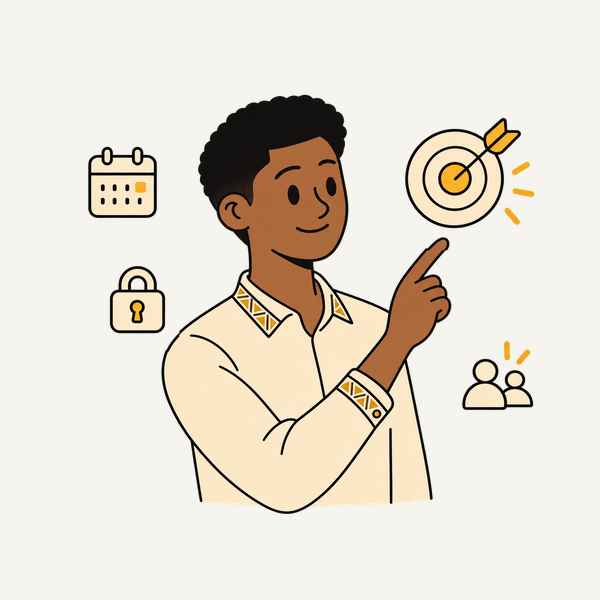
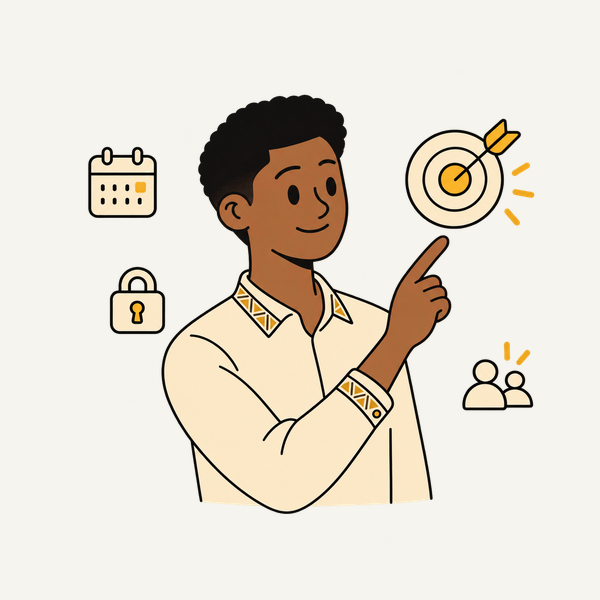
Show the smooth onboarding GIFs
Replace the bundled onboarding art with the approved *-afro-smooth-preview
exports, in which each character stays fixed and only the motifs move.
The asset test now checks frame count and timing, the fixed character
region and a seamless loop. Track the smooth sources, their export
script and the updated plans and brief.

diff --git a/test/onboarding_assets_test.dart b/test/onboarding_assets_test.dart
@@ -3,24 +3,57 @@ import 'dart:io';
 import 'package:flutter_test/flutter_test.dart';
 import 'package:image/image.dart' as img;
 
-void main() {
-  for (final slide in ['save', 'goals', 'pay']) {
-    test('$slide onboarding art is a 600x600 1920ms loop with a still', () {
-      final gif = img.decodeGif(
-        File('assets/img/onboarding/$slide.gif').readAsBytesSync(),
-      )!;
-      expect(gif.frames.length, greaterThan(1));
-      expect(
-        gif.frames.fold<int>(0, (sum, f) => sum + f.frameDuration),
-        1920,
-      );
-      expect([gif.width, gif.height], [600, 600]);
+/// Each slide's character region (left, top, right, bottom), which must not
+/// move: only the floating motifs around it animate.
+const _characters = {
+  'save': (185, 235, 425, 425),
+  'goals': (175, 265, 445, 500),
+  'pay': (220, 280, 370, 480),
+};
 
-      final still = img.decodePng(
-        File('assets/img/onboarding/$slide-still.png').readAsBytesSync(),
-      )!;
-      expect([still.width, still.height], [600, 600]);
-    });
+int _difference(img.Image a, img.Image b) {
+  var sum = 0;
+  for (final p in a) {
+    final q = b.getPixel(p.x, p.y);
+    sum += ((p.r - q.r).abs() + (p.g - q.g).abs() + (p.b - q.b).abs()).toInt();
+  }
+  return sum;
+}
+
+void main() {
+  for (final MapEntry(key: slide, value: (l, t, r, b)) in _characters.entries) {
+    test(
+      '$slide onboarding art is a smooth 600x600 1920ms loop with a still',
+      () {
+        final gif = img.decodeGif(
+          File('assets/img/onboarding/$slide.gif').readAsBytesSync(),
+        )!;
+        final frames = gif.frames;
+        expect(frames.length, greaterThanOrEqualTo(40));
+        expect(frames.every((f) => f.frameDuration <= 80), isTrue);
+        expect(frames.fold<int>(0, (sum, f) => sum + f.frameDuration), 1920);
+        expect([gif.width, gif.height], [600, 600]);
+
+        img.Image character(img.Image f) =>
+            img.copyCrop(f, x: l, y: t, width: r - l, height: b - t);
+        final still = character(frames.first);
+        for (final frame in frames) {
+          expect(_difference(character(frame), still), 0);
+        }
+
+        final steps = [
+          for (var i = 1; i < frames.length; i++)
+            _difference(frames[i - 1], frames[i]),
+        ];
+        final wrap = _difference(frames.last, frames.first);
+        expect(wrap, lessThanOrEqualTo(steps.reduce((a, b) => a > b ? a : b)));
+
+        final png = img.decodePng(
+          File('assets/img/onboarding/$slide-still.png').readAsBytesSync(),
+        )!;
+        expect([png.width, png.height], [600, 600]);
+      },
+    );
   }
 
   test('onboarding asset directory is declared in pubspec', () {

diff --git a/design/onboarding_previews/build_smooth_gifs.py b/design/onboarding_previews/build_smooth_gifs.py
@@ -1,0 +1,79 @@
+"""Build steady, gently animated previews from the approved onboarding art."""
+
+from pathlib import Path
+import math
+
+from PIL import Image
+
+
+HERE = Path(__file__).resolve().parent
+BACKGROUND = (246, 244, 238, 255)
+FRAME_COUNT = 48
+FRAME_MS = 40
+OUTPUT_SIZE = 600
+ART_SIZE = 505
+
+# Only these small floating motifs move. The characters and the crop stay fixed.
+ASSETS = (
+    ("01-save-afro", ((145, 250, 365, 500, 0.3), (925, 260, 1170, 520, 1.5))),
+    (
+        "02-goals-afro",
+        (
+            (65, 220, 320, 475, 0.2),
+            (845, 135, 1230, 460, 1.5),
+            (125, 530, 290, 765, 2.2),
+            (995, 720, 1230, 970, 0.9),
+        ),
+    ),
+    ("03-pay-afro", ((165, 245, 405, 500, 0.4), (875, 360, 1135, 610, 1.5))),
+)
+
+
+def render(name, regions):
+    original = Image.open(HERE / f"{name}-master.png").convert("RGBA")
+    fixed_crop = original.getchannel("A").getbbox()
+    body = original.copy()
+    motifs = []
+    for left, top, right, bottom, phase_offset in regions:
+        motifs.append((original.crop((left, top, right, bottom)), left, top, phase_offset))
+        body.paste((0, 0, 0, 0), (left, top, right, bottom))
+
+    frames = []
+    for index in range(FRAME_COUNT):
+        phase = 2 * math.pi * index / FRAME_COUNT
+        art = body.copy()
+        for motif, x, y, offset in motifs:
+            # A small, periodic motion brings the symbols to rest at each turn.
+            dy = round(7 * math.sin(phase + offset))
+            art.alpha_composite(motif, (x, y + dy))
+
+        art = art.crop(fixed_crop)
+        art.thumbnail((ART_SIZE, ART_SIZE), Image.Resampling.LANCZOS)
+        canvas = Image.new("RGBA", (OUTPUT_SIZE, OUTPUT_SIZE), BACKGROUND)
+        canvas.alpha_composite(
+            art, ((OUTPUT_SIZE - art.width) // 2, (OUTPUT_SIZE - art.height) // 2)
+        )
+        frames.append(canvas.convert("RGB"))
+
+    palette = frames[0].quantize(colors=255, method=Image.Quantize.MEDIANCUT)
+    indexed = [
+        frame.quantize(palette=palette, dither=Image.Dither.NONE)
+        for frame in frames
+    ]
+    gif_path = HERE / f"{name}-smooth-preview.gif"
+    indexed[0].save(
+        gif_path,
+        save_all=True,
+        append_images=indexed[1:],
+        duration=FRAME_MS,
+        loop=0,
+        optimize=True,
+        disposal=2,
+    )
+    frames[0].save(HERE / f"{name}-smooth-preview.png")
+    return gif_path
+
+
+if __name__ == "__main__":
+    for asset in ASSETS:
+        print(render(*asset))

diff --git a/docs/superpowers/plans/2026-10-17-onboarding-carousel.md b/docs/superpowers/plans/2026-10-17-onboarding-carousel.md
@@ -12,8 +12,8 @@
 
 ## Global Constraints
 
-- Approved animation sources: `design/onboarding_previews/01-save-afro-preview.gif`, `02-goals-afro-preview.gif`, and `03-pay-afro-preview.gif`, with matching `*-preview.png` stills.
-- All three are 600 × 600, loop in 1,920 ms, and include `#F6F4EE` background; show on `BocColors.paper` even when the app theme is dark.
+- Approved animation sources: `design/onboarding_previews/01-save-afro-smooth-preview.gif`, `02-goals-afro-smooth-preview.gif`, and `03-pay-afro-smooth-preview.gif`, with matching `*-afro-smooth-preview.png` stills. Their source artwork is the matching `*-afro-master.png`; `build_smooth_gifs.py` regenerates the animations.
+- All three are 600 × 600, loop in 1,920 ms, and include `#F6F4EE` background; show on `BocColors.paper` even when the app theme is dark. Keep the character and canvas fixed; only floating motifs move. Do not promote the older `*-afro-preview.gif` exports.
 - Use the existing slide titles, descriptions, `Next` / `Get started` labels, and destinations. Do not swap product names from the screenshots into app copy.
 - Preserve a visible `I already have an account` route to `AuthDestination.login`.
 - Follow the screenshot layout by removing the current top `CheetahBrand`, `Skip`, and carousel `RegulatoryBadge`; keep sign-in beneath the primary button.
@@ -24,12 +24,13 @@
 - Slow device, missing GIF, or decode failure: show the matching still PNG without a blank frame (Task 2 widget tests).
 - Rapid Next/back/dot taps: displayed image, title, progress, and button label always refer to the same slide (Task 3 widget test).
 - Reduced motion: the still PNG appears and no GIF animates (Task 2 widget test).
+- GIF loop boundary and decoded frames: the character stays fixed and the last-to-first transition is no larger than an ordinary adjacent-frame transition (Task 1 asset test and Task 3 device review).
 - Small screen and 2× text: lower panel scrolls and button/sign-in remain reachable (Task 2 widget test).
 - Sign-in and final slide: existing users can reach login, while `Get started` still reaches verification method (Task 3 widget test).
 
 ## Source handoff before execution
 
-- [ ] If the shared checkpoint in the splash plan has not been made, explicitly track both plans and the design brief with `git add -f` (new `docs/` files are ignored), plus only the nine approved `*-afro-*` artwork files. Leave earlier previews untracked and commit before creating a fresh worktree.
+- [ ] Before creating a fresh worktree, track the six approved `*-afro-smooth-preview.*` files and `build_smooth_gifs.py`, and commit them with both plan updates and the design brief. The three `*-afro-master.png` source files are already tracked. Keep older previews out of the production asset copy.
 
 ---
 
@@ -44,9 +45,9 @@
 **Interfaces:**
 - Produces: six stable `assets/img/onboarding/...` asset paths consumed by Tasks 2 and 3.
 
-- [ ] **Step 1: Write an asset test** that reads the six intended production paths, decodes each GIF and PNG, checks each is 600 × 600, checks GIF frame count > 1 and loop duration 1,920 ms, and checks the asset directory is declared in `pubspec.yaml`.
+- [ ] **Step 1: Write an asset test** that reads the six intended production paths, decodes each GIF and PNG, checks each is 600 × 600, checks each GIF has at least 40 decoded frames, no frame lasts longer than 80 ms, and total loop duration is 1,920 ms. Compare the fixed character region across frames (Save: `(185, 235, 425, 425)`; Goals: `(175, 265, 445, 500)`; Pay: `(220, 280, 370, 480)`) and require identical pixels. Check the summed last-to-first pixel difference is no greater than the largest ordinary adjacent-frame difference. Check the asset directory is declared in `pubspec.yaml`.
 - [ ] **Step 2: Run `flutter test test/onboarding_assets_test.dart`** and expect missing-asset failures.
-- [ ] **Step 3: Copy only the approved `*-afro-preview.gif` and matching `*-afro-preview.png` files** to the six named production paths. Declare `assets/img/onboarding/` explicitly in `pubspec.yaml` so Flutter bundles nested assets.
+- [ ] **Step 3: Copy only the approved `*-afro-smooth-preview.gif` and matching `*-afro-smooth-preview.png` files** to the six named production paths. Declare `assets/img/onboarding/` explicitly in `pubspec.yaml` so Flutter bundles nested assets.
 - [ ] **Step 4: Verify and commit.** Run `flutter test test/onboarding_assets_test.dart`; expect pass. Commit the six assets, manifest, and test together. Leave older preview versions out of the app bundle.
 
 ### Task 2: Screenshot-based slide presentation
@@ -80,4 +81,4 @@
 - [ ] **Step 1: Write flow tests** for all three image/title/description pairs, dot selection, `Next` on slides 1–2, `Get started` on slide 3, and `I already have an account` navigation. Assert the carousel no longer uses `OnboardingIllustration`, top `CheetahBrand`, `Skip`, or `RegulatoryBadge`; keep logo assertions for bootstrap, login, and home.
 - [ ] **Step 2: Run `flutter test test/onboarding_carousel_test.dart test/in_app_branding_test.dart`** and expect the new layout assertions to fail.
 - [ ] **Step 3: Replace each slide's icon field** with its `gifAsset` and `stillAsset` path in `_OnboardingScreenState._slides`; keep the current titles and descriptions. Render `OnboardingSlideView` on a `BocColors.paper` scaffold even in dark mode, use dark status/navigation-bar icons, and connect callbacks to the current `_advance()` and `openAuthDestination` logic. Remove `OnboardingIllustration` only if `rg` confirms no other consumer.
-- [ ] **Step 4: Verify and commit.** Run `flutter test test/onboarding_assets_test.dart test/onboarding_slide_view_test.dart test/onboarding_carousel_test.dart test/in_app_branding_test.dart test/widget_test.dart`, then `flutter analyze`, with writable Flutter SDK cache access; expect pass. Check all three slides on available iOS and Android simulators/devices at normal and large text sizes, including a full GIF loop and dark system theme. Report unavailable platform checks as unverified, then commit.
+- [ ] **Step 4: Verify and commit.** Run `flutter test test/onboarding_assets_test.dart test/onboarding_slide_view_test.dart test/onboarding_carousel_test.dart test/in_app_branding_test.dart test/widget_test.dart`, then `flutter analyze`, with writable Flutter SDK cache access; expect pass. Check all three slides on available iOS and Android simulators/devices at normal and large text sizes, including a full GIF loop without a character jump and dark system theme. Report unavailable platform checks as unverified, then commit.

diff --git a/docs/superpowers/specs/2026-10-17-onboarding-motion-design.md b/docs/superpowers/specs/2026-10-17-onboarding-motion-design.md
@@ -4,7 +4,7 @@
 
 The first cold launch uses the supplied `Splash Screen.png`, `Splash Screen-1.png`, and `Splash Screen-2.png` as a sequence reference: gold field, Cheetah mark, then the title and `by BocTrust`. Reuse the existing `BocBrandMark` and `CheetahBrand` typography and semantics. The platform launch surface is static and may already show the mark, so Flutter begins with that same mark visible and animates a subtle settle without a disappearance or jump. The existing post-login bootstrap loading and error states stay functional.
 
-The three intro slides use the supplied `Onboarding - 1.png`, `Onboarding - 2.png`, and `Onboarding - 3.png` for layout. Their illustration content is the approved African-inspired revision in `design/onboarding_previews/*-afro-preview.gif`: contemporary Nigerian characters, natural proportions, clean lines, cream clothing, restrained gold and textile details. The GIFs are 600 × 600, have a `#F6F4EE` background, and loop in 1.92 seconds. Their matching `*-afro-master.png` files are source artwork for later revision.
+The three intro slides use the supplied `Onboarding - 1.png`, `Onboarding - 2.png`, and `Onboarding - 3.png` for layout. Their illustration content is the approved African-inspired revision in `design/onboarding_previews/*-afro-smooth-preview.gif`: contemporary Nigerian characters, natural proportions, clean lines, cream clothing, restrained gold and textile details. The matching `*-afro-smooth-preview.png` files are stills, while `*-afro-master.png` files are the source artwork. The GIFs are 600 × 600, have a `#F6F4EE` background, and loop in 1.92 seconds. Each character and the canvas stay fixed throughout the loop; only small floating motifs move gently. The export is reproducible with `design/onboarding_previews/build_smooth_gifs.py`.
 
 ## Splash behavior
 
@@ -24,4 +24,4 @@ The three intro slides use the supplied `Onboarding - 1.png`, `Onboarding - 2.pn
 
 ## Acceptance
 
-Both plans pass focused Flutter widget/configuration tests and a manual iOS/Android review when a simulator or device is available. The review checks the native handoff, delayed title order, reduced motion, illustration scale, GIF loops and restart, screen-size behavior, slide navigation, and sign-in access. Report unavailable platform checks as unverified. The approved preview files are copied to production asset names; earlier unapproved previews remain review history only. Version the approved source art and plan documents before using a new worktree: the art is currently untracked and `.gitignore` excludes new `docs/` files.
+Both plans pass focused Flutter widget/configuration tests and a manual iOS/Android review when a simulator or device is available. The review checks the native handoff, delayed title order, reduced motion, illustration scale, smooth GIF loops without character or canvas movement, GIF restart, screen-size behavior, slide navigation, and sign-in access. Report unavailable platform checks as unverified. Copy the approved smooth GIFs and matching stills to production asset names; earlier previews remain review history only. Version the six approved smooth previews and their export script with the plans before using a new worktree.

diff --git a/docs/superpowers/plans/2026-10-17-splash-animation.md b/docs/superpowers/plans/2026-10-17-splash-animation.md
@@ -29,7 +29,7 @@
 
 ## Source handoff before execution
 
-- [ ] Track this plan and `docs/superpowers/specs/2026-10-17-onboarding-motion-design.md` with an explicit `git add -f` because `.gitignore` excludes new `docs/` files. Track the carousel plan and only the nine approved `*-afro-*` artwork files in `design/onboarding_previews/` in the same checkpoint. Leave older previews untracked. Commit this checkpoint before creating a fresh worktree so both plans and approved assets are available there.
+- [ ] Before creating a fresh worktree, commit this plan, the carousel plan, the design brief, the six approved `*-afro-smooth-preview.*` files, and `design/onboarding_previews/build_smooth_gifs.py` in one checkpoint. The three `*-afro-master.png` source files are already tracked. Keep older previews out of the production asset copy.
 
 ---
 
